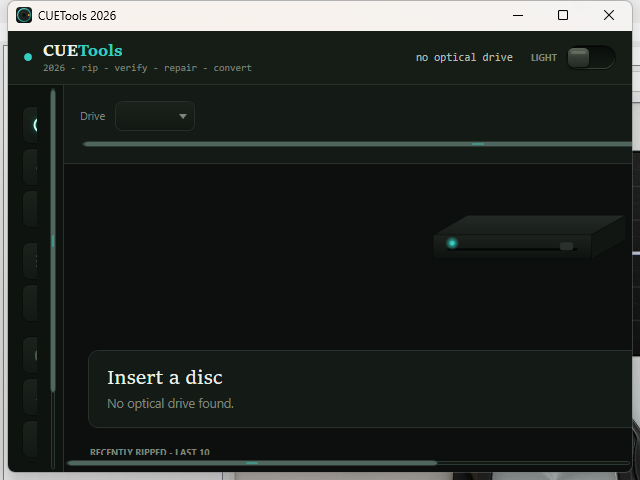
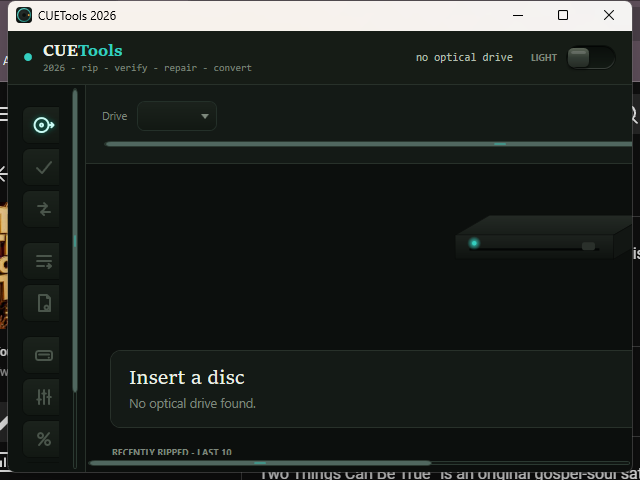
Refresh the scaling evidence for the wider rail and close D13

diff --git a/docs/review/decisions-needed.md b/docs/review/decisions-needed.md
@@ -166,27 +166,6 @@ boundary; only the explicitly recorded vendor/legal boundaries remain external.
 
 ## Open decisions
 
-### D13. Rip page history rows starve the timestamp and hard-clip the result - OPEN 2026-08-24
-
-- **Ask:** fix the history row layout, or accept it. It is a Rip page design decision, so it was
-  left alone during the scaling-port walkthrough.
-- **Found by:** the SLICE-013 port walkthrough,
-  `docs/evidence/2026-08-24-wpf-scaling-port/`. **Not a port regression** - the port did not touch
-  this template, and the fault reproduces at all five display scales and all four window widths
-  tested, including the 1200 default.
-- **Cause, verified from markup:** `CUETools.Wpf/Views/RipView.xaml:526-533` uses
-  `<DockPanel LastChildFill="False">` with `Result` docked Right before `When`. DockPanel reserves
-  space in declaration order, so `Result` takes all remaining width and `When` is left zero width.
-- **Consequence 1:** the relative timestamp never renders, at any scale or width, in any of the 40
-  captures. `HistoryStore.cs:75` always populates it as `When = Relative(r.When)`.
-- **Consequence 2:** `Result` sets no `TextTrimming` and no `ToolTip`, so the evidence sentence is
-  cut mid-word at the panel edge with no ellipsis and no way to read the remainder. CLAUDE.md
-  requires long identity text to be trimmed only with its full value in a tooltip, so this is a
-  standing violation rather than a cosmetic gap.
-- **Smallest safe fix:** dock `When` before `Result`, give `Result` `TextTrimming="CharacterEllipsis"`
-  and a `ToolTip` bound to the same value. That restores the timestamp, satisfies the tooltip rule,
-  and also closes the title/result collision at narrow widths, which is the same root cause.
-
 ### D12. Mutation harness: restore the unlanded test half - RESOLVED 2026-08-24 (A)
 
 - **User chose (A):** land the production-test half of `2a8df3e3` onto master, then re-baseline
@@ -404,5 +383,42 @@ Original decision record:
   up to 16 passes. Test & Copy stays forced-Secure: it is the assured mode.
 
 ## Resolved / actioned
+
+### D13. Rip page history rows starve the timestamp and hard-clip the result - RESOLVED 2026-08-24
+
+- **Fix:** `CUETools.Wpf/Views/RipView.xaml` now docks `When` before `Result` in the history row's
+  `DockPanel`. `When` docks Right and always gets its width; `Result` is the `LastChildFill` child,
+  so it fills the remaining middle and trims with `TextTrimming="CharacterEllipsis"` plus a
+  `ToolTip` bound to the same `{Binding Result}` value, matching CLAUDE.md's trim-with-tooltip rule.
+- **Verified by:** `RipHistoryRowTests` (`CUETools.Wpf.Tests`), which pins both halves of the fix -
+  `TheTimestampIsReservedBeforeTheEvidenceText` checks `When` docks right and precedes `Result` in
+  declaration order, and `TheEvidenceTextTrimsAndKeepsItsFullValueInATooltip` checks the
+  `CharacterEllipsis`/`NoWrap`/`ToolTip` triple on `Result`. The relative timestamp now renders and
+  the evidence sentence trims instead of hard-clipping, confirmed live in the recaptured screenshots
+  under `docs/evidence/2026-08-24-wpf-scaling-port/` (the 1100/0800/0640 captures; the port's own
+  strip-width fix moved those files, so they were recaptured together).
+
+Original decision record:
+
+### D13 (original). Rip page history rows starve the timestamp and hard-clip the result - OPEN 2026-08-24
+
+- **Ask:** fix the history row layout, or accept it. It is a Rip page design decision, so it was
+  left alone during the scaling-port walkthrough.
+- **Found by:** the SLICE-013 port walkthrough,
+  `docs/evidence/2026-08-24-wpf-scaling-port/`. **Not a port regression** - the port did not touch
+  this template, and the fault reproduces at all five display scales and all four window widths
+  tested, including the 1200 default.
+- **Cause, verified from markup:** `CUETools.Wpf/Views/RipView.xaml:526-533` uses
+  `<DockPanel LastChildFill="False">` with `Result` docked Right before `When`. DockPanel reserves
+  space in declaration order, so `Result` takes all remaining width and `When` is left zero width.
+- **Consequence 1:** the relative timestamp never renders, at any scale or width, in any of the 40
+  captures. `HistoryStore.cs:75` always populates it as `When = Relative(r.When)`.
+- **Consequence 2:** `Result` sets no `TextTrimming` and no `ToolTip`, so the evidence sentence is
+  cut mid-word at the panel edge with no ellipsis and no way to read the remainder. CLAUDE.md
+  requires long identity text to be trimmed only with its full value in a tooltip, so this is a
+  standing violation rather than a cosmetic gap.
+- **Smallest safe fix:** dock `When` before `Result`, give `Result` `TextTrimming="CharacterEllipsis"`
+  and a `ToolTip` bound to the same value. That restores the timestamp, satisfies the tooltip rule,
+  and also closes the title/result collision at narrow widths, which is the same root cause.
 
 - **D1 AccurateRip HTTPS - DONE 2026-07-02.** Flipped both `http://www.accuraterip.com` literals to `https://` (`AccurateRip.cs:833` dBAR lookup, `:1247` DriveOffsets.bin). No http fallback: a failed AR lookup degrades to "not verified" (corroborative, no data loss), so retrying over cleartext buys nothing. Verified: AccurateRip builds; the HTTPS dBAR path returns 404 for a fake id (proves TLS+routing) and DriveOffsets.bin returned 200 earlier; TestParity 18/18 green. Committed as `9f89253`.

diff --git a/docs/evidence/2026-08-24-wpf-scaling-port/index.md b/docs/evidence/2026-08-24-wpf-scaling-port/index.md
@@ -57,10 +57,11 @@ therefore walked at four widths: 1200 (the documented default, full rail), 1100 
 | Full card rail at and above 1140 | correct at all 5 scales, both themes |
 | Rail collapses to the 44x38 icon strip below 1140 | correct at all 5 scales, both themes |
 | Glyphs legible at 44x38 | yes, and they sharpen with scale rather than blurring |
-| Below 860: layout held at its 860 shape, horizontal scroll | correct, horizontal scrollbars appear and content is not squeezed |
+| Below 860: layout held at its 860 shape, horizontal scroll | correct, horizontal scrollbars appear and content is not squeezed; at 640x480 that is a uniform 314px of overflow (78 + 860 - 624), reachable by scrollbar |
 | Window drags to 640x480 without breaking | yes; the rail strip gains a vertical scrollbar for overflow |
 | Light/dark flip restyles the strip | correct at all 5 scales, no stranded brushes from the previous palette |
-| Nothing clips | **fails on the Rip page history rows, see below** |
+| Nothing clips | fails on the Rip page history rows, see below |
+| Rip page history rows (D13, fixed after this walkthrough) | `When` now docks before `Result`; the timestamp renders and `Result` trims with a tooltip (`RipHistoryRowTests`) |
 
 At 200%, the 1200 and 1100 captures are height-clamped to 1470 physical pixels by the desktop work
 area. Width is what the breakpoints key off, so this does not affect the rail result.
